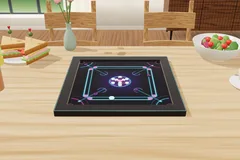
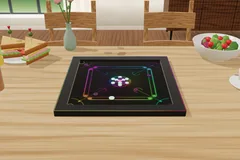
Carrom neon: gaming RGB (flowing rainbow glow on lines, frame, pockets, LED rings on men), flashes on every contact
Claude-Session: https://claude.ai/code/session_019p8B6UqeAdsK6vNEgpDiqd

diff --git a/atlas/models/carrom.js b/atlas/models/carrom.js
@@ -290,15 +290,40 @@
     return (geos.surf = g);
   }
 
+  /* ---------- the gaming RGB of the night board ----------
+     rgbify(material, mode): the glow is redrawn in a rainbow that flows with the clock (RGB.uT, seconds; set as the board is drawn).
+     'uv' the surface (hue by the angle round the centre + the distance out), 'local' a tube / ring (hue along its own x, or round
+     its own centre for a ring), 'halo' the flash ring of a man (a MeshBasicMaterial: the whole colour). The brightness stays the
+     material's own: only the hue is replaced. */
+  const RGB = { uT: { value: 0 } };
+  const HUE = 'vec3 crHue(float h){return clamp(abs(mod(h*6.0+vec3(0.0,4.0,2.0),6.0)-3.0)-1.0,0.0,1.0);}\n';
+  function rgbify(m, mode) {
+    m.customProgramCacheKey = () => 'crRGB' + mode;
+    m.onBeforeCompile = sh => {
+      sh.uniforms.uT = RGB.uT;
+      if (mode !== 'uv') {
+        sh.vertexShader = 'varying vec3 vCrP;\n' + sh.vertexShader.replace('#include <begin_vertex>', '#include <begin_vertex>\nvCrP = position;');
+      }
+      sh.fragmentShader = 'uniform float uT;\n' + (mode !== 'uv' ? 'varying vec3 vCrP;\n' : '') + HUE + sh.fragmentShader;
+      const hue = mode === 'uv' ? 'vec2 crp = vUv - 0.5; float crh = atan(crp.y, crp.x) / 6.2831853 + length(crp) * 0.9 - uT * 0.16;'
+        : mode === 'ring' ? 'float crh = atan(vCrP.z, vCrP.x) / 6.2831853 - uT * 0.5;'
+        : mode === 'halo' ? 'float crh = atan(vCrP.z, vCrP.x) / 6.2831853 + uT * 1.4;'
+        : 'float crh = vCrP.x * 0.12 - uT * 0.3;';
+      if (mode === 'halo') sh.fragmentShader = sh.fragmentShader.replace('gl_FragColor = vec4( outgoingLight, diffuseColor.a );', '{ ' + hue + ' outgoingLight = crHue(fract(crh)) * 1.15; }\ngl_FragColor = vec4( outgoingLight, diffuseColor.a );');
+      else sh.fragmentShader = sh.fragmentShader.replace('#include <emissivemap_fragment>', '#include <emissivemap_fragment>\n{ ' + hue + ' float crL = max(max(totalEmissiveRadiance.r, totalEmissiveRadiance.g), totalEmissiveRadiance.b); totalEmissiveRadiance = crHue(fract(crh)) * crL * 1.2; }');
+    };
+    return m;
+  }
+
   /* ---------- materials ---------- */
   function boardMats(look) {
     const TT = T();
     if (look === 'neon') return mat('bm' + look, () => {
-      const glowM = c => { const m = phys({ color: '#000000', roughness: .4, metalness: 0 }); m.emissive = lin(c); m.emissiveIntensity = 1.6; return m; };
-      const st = surfaceTex(look), surf = phys({ map: st, color: '#ffffff', roughness: .25, metalness: 0, clearcoat: .9, clearcoatRoughness: .1, envMapIntensity: .5 });
-      surf.emissiveMap = st; surf.emissive = new TT.Color(.75, .75, .75);   // the drawn tubes glow; the black stays black
+      const glowM = (c, mode) => { const m = phys({ color: '#000000', roughness: .4, metalness: 0 }); m.emissive = lin(c); m.emissiveIntensity = 1.6; return rgbify(m, mode); };
+      const st = surfaceTex(look), surf = phys({ map: st, color: '#4a4a4a', roughness: .25, metalness: 0, clearcoat: .9, clearcoatRoughness: .1, envMapIntensity: .5 });
+      surf.emissiveMap = st; surf.emissive = new TT.Color(.95, .95, .95); rgbify(surf, 'uv');   // (a dim base colour under it: the glow's rainbow stays saturated)   // the drawn tubes glow in a flowing rainbow; the black stays black
       return { surf, frame: phys({ color: '#0b0c14', roughness: .22, metalness: 0, clearcoat: 1, clearcoatRoughness: .08, envMapIntensity: 1 }),
-        edge: glowM('#3ce6ff'), rim: glowM('#ff3fb4'), cup: phys({ color: '#05050a', roughness: .9 }), net: phys({ map: netTex(), color: '#ffffff', roughness: 1 }) };
+        edge: glowM('#ffffff', 'local'), rim: glowM('#ffffff', 'ring'), cup: phys({ color: '#05050a', roughness: .9 }), net: phys({ map: netTex(), color: '#ffffff', roughness: 1 }) };
     });
     if (look === 'rajasthan') return mat('bm' + look, () => {
       const fw = X.wood('crSheesham', '#5a3418', '#1e0e05', SZ(1024), SZ(256), 1.2); fw.wrapS = fw.wrapT = TT.RepeatWrapping;
@@ -354,12 +379,21 @@
     if (look === 'modern' && striker) { const ring = new TT.Mesh(geos.ring || (geos.ring = (() => { const q = new TT.TorusGeometry(r - .004, .006, 6, 36); q.rotateX(Math.PI / 2); if (X.share) X.share(q); return q; })()), boardMats('modern').brass); ring.position.y = h * .55; g.add(ring); }
     g.userData = { c, r, h };
     if (neon) {   // a hit lights the man up: its face glows hard and a halo flares round it (flash(k), k 1 → 0)
-      const col = { w: '#3ce6ff', b: '#ff3fb4', q: '#ff4fbd', s: '#9ff4ff' }[c];
-      const hm = new TT.MeshBasicMaterial({ color: lin(col), transparent: true, opacity: 0, blending: TT.AdditiveBlending, depthWrite: false });
+      // an RGB LED ring round the rim (dim at rest), and a rainbow halo that spins out from the man when it is hit
+      const lm = rgbify(phys({ color: '#000000', roughness: .4, metalness: 0 }), 'ring'); lm.emissive = new TT.Color(1, 1, 1); lm.emissiveIntensity = .55;
+      const led = new TT.Mesh(geos['led' + c] || (geos['led' + c] = (() => { const q = new TT.TorusGeometry(r + .002, .007, 6, LO() ? 28 : 44); q.rotateX(Math.PI / 2); if (X.share) X.share(q); return q; })()), lm);
+      led.position.y = h * .5; g.add(led);
+      const hm = rgbify(new TT.MeshBasicMaterial({ color: 0xffffff, transparent: true, opacity: 0, blending: TT.AdditiveBlending, depthWrite: false }), 'halo');
+      const wm = rgbify(new TT.MeshBasicMaterial({ color: 0xffffff, transparent: true, opacity: 0, blending: TT.AdditiveBlending, depthWrite: false }), 'halo');
       const halo = new TT.Mesh(geos.halo || (geos.halo = (() => { const q = new TT.RingGeometry(.5, 1, LO() ? 24 : 40); q.rotateX(-Math.PI / 2); if (X.share) X.share(q); return q; })()), hm);
       halo.position.y = h + .002; halo.visible = false; halo.renderOrder = 3; g.add(halo);
+      const wave = new TT.Mesh(geos.halo, wm); wave.position.y = .006; wave.visible = false; wave.renderOrder = 3; g.add(wave);   // a thin shock ring on the board
       const e0 = top.emissive.clone();
-      g.userData.flash = k => { k = Math.max(0, Math.min(1, k)); top.emissive.copy(e0).multiplyScalar(1 + 3.5 * k); halo.visible = k > .01; hm.opacity = k; const sc = r * (1.25 + (1 - k) * 1.3); halo.scale.set(sc, 1, sc); };
+      g.userData.flash = k => {
+        k = Math.max(0, Math.min(1, k)); top.emissive.copy(e0).multiplyScalar(1 + 3.5 * k); lm.emissiveIntensity = .55 + 4 * k;
+        halo.visible = wave.visible = k > .01; hm.opacity = k; wm.opacity = .7 * k * k;
+        const sc = r * (1.25 + (1 - k) * 1.3), sw = r * (1.4 + (1 - k) * 3.2); halo.scale.set(sc, 1, sc); wave.scale.set(sw, 1, sw);
+      };
     }
     return g;
   }
@@ -372,7 +406,7 @@
     const surf = new TT.Mesh(surfaceGeo(), BM.surf); surf.position.y = TOP; surf.receiveShadow = true; g.add(surf);
     if (look === 'neon') {   // the breathing light, read from the clock as the surface is drawn (kept out of the showcase's merge)
       surf.userData.keep = true; const s0 = BM.surf.emissive.r;
-      surf.onBeforeRender = () => { const k = neonK(performance.now()); BM.surf.emissive.setScalar(s0 * (.7 + 1.1 * k)); BM.edge.emissiveIntensity = BM.rim.emissiveIntensity = 1.2 * (1 + 1.6 * k); };   // (a little dimmer at rest, so the wave stands out)
+      surf.onBeforeRender = () => { const k = neonK(performance.now()); RGB.uT.value = performance.now() / 1000; BM.surf.emissive.setScalar(s0 * (.7 + 1.1 * k)); BM.edge.emissiveIntensity = BM.rim.emissiveIntensity = 1.2 * (1 + 1.6 * k); };   // (a little dimmer at rest, so the wave stands out)
     }
     // a base under the surface (seen through the pockets' rims) and the pocket cups with their nets
     const base = new TT.Mesh(new TT.BoxGeometry(2 * S, .04, 2 * S), BM.cup); base.position.y = .03; g.add(base);

diff --git a/atlas/games/carrom.js b/atlas/games/carrom.js
@@ -303,7 +303,7 @@
 
     /* ---------- the AI (a worker; the page thinks itself if workers are unavailable) ---------- */
     let worker = null, wid = 0; const pend = {};
-    try { worker = new Worker('../carrom/worker.js?v=1'); worker.onmessage = e => { const d = e.data || {}, f = pend[d.id]; if (f) { delete pend[d.id]; f(d.shot || null); } }; worker.onerror = () => { worker = null; Object.keys(pend).forEach(k => { const f = pend[k]; delete pend[k]; f(null); }); }; } catch (e) { worker = null; }
+    try { worker = new Worker('../carrom/worker.js?v=2'); worker.onmessage = e => { const d = e.data || {}, f = pend[d.id]; if (f) { delete pend[d.id]; f(d.shot || null); } }; worker.onerror = () => { worker = null; Object.keys(pend).forEach(k => { const f = pend[k]; delete pend[k]; f(null); }); }; } catch (e) { worker = null; }
     function think(s, lv) {
       const seed = (Math.random() * 1e9) | 0;
       return new Promise(res => {
@@ -359,7 +359,10 @@
           while (ev < sim.events.length && sim.events[ev].t <= el) {
             const e = sim.events[ev++];
             if (e.k === 'hit' && e.v > 8) SND.hit(e.v); else if (e.k === 'cush' && e.v > 25) SND.cush(e.v); else if (e.k === 'pocket') SND.pocket();
-            if (e.k === 'hit' && e.v > 4) { flash(e.a === N ? striker : pcs[e.a], e.v); flash(e.b === N ? striker : pcs[e.b], e.v); }
+            const pg = i => i == null ? null : i === N ? striker : pcs[i];   // (neon: everything a man touches lights it up)
+            if (e.k === 'hit' && e.v > 4) { flash(pg(e.a), e.v); flash(pg(e.b), e.v); }
+            else if (e.k === 'cush' && e.v > 6) flash(pg(e.i), e.v);
+            else if (e.k === 'pocket') flash(pg(e.i), 200);
           }
           kick(120);
           if (fi < F.length - 1 || Object.values(sinks).some(s => el - s.t < .22)) requestAnimationFrame(step);

diff --git a/atlas/index.html b/atlas/index.html
@@ -1633,7 +1633,7 @@ html:has(#bv.on,#hist.on,#ov.on,.lvsheet) :is(.updline,#gsSeg),.updline[hidden],
 <script src="i18n.js?v=59n"></script>
 <script src="gamelist-i18n.js?v=10n"></script>
 <script src="table3d.js?v=126"></script>
-<script src="tables3d.js?v=32"></script>
+<script src="tables3d.js?v=33"></script>
 <script src="models/shogi.js?v=23"></script>
 <script src="models/chess.js?v=14"></script>
 <script src="models/backgammon.js?v=118"></script>
@@ -1658,8 +1658,8 @@ html:has(#bv.on,#hist.on,#ov.on,.lvsheet) :is(.updline,#gsSeg),.updline[hidden],
 <script src="../ludo/house.js?v=5"></script>
 <script src="../ludo/board2d.js?v=4"></script>
 <script src="models/ludo.js?v=4"></script>
-<script src="../carrom/engine.js?v=1"></script>
-<script src="models/carrom.js?v=6"></script>
+<script src="../carrom/engine.js?v=2"></script>
+<script src="models/carrom.js?v=7"></script>
 <script src="models/cardtables.js?v=4"></script>
 <script src="icons3d.js?v=34"></script>
 <script src="games/reversi.js?v=30"></script>
@@ -1689,7 +1689,7 @@ html:has(#bv.on,#hist.on,#ov.on,.lvsheet) :is(.updline,#gsSeg),.updline[hidden],
 <script src="games/senet.js?v=15"></script>
 <script src="games/agon.js?v=8"></script>
 <script src="games/ludo.js?v=23"></script>
-<script src="games/carrom.js?v=11"></script>
+<script src="games/carrom.js?v=12"></script>
 <script>/* rules tours: after a solved step, the ▶ button fills up like a timer until the tour moves on by itself */
 window.AtlasRgdTimer = function (btn, ms, alive) {
   if (!btn) return; btn.classList.remove('rgd-auto'); void btn.offsetWidth; btn.style.setProperty('--rgt', ms + 'ms'); btn.classList.add('rgd-auto');

diff --git a/carrom/engine.js b/carrom/engine.js
@@ -111,10 +111,10 @@
         if (!ON[i]) continue;
         // cushions
         const r = R[i];
-        if (X[i] > H - r) { X[i] = H - r; if (VX[i] > 0) { events.push({ t, k: 'cush', v: VX[i] }); VX[i] = -VX[i] * E_CUSH; VY[i] *= T_CUSH; } }
-        else if (X[i] < -H + r) { X[i] = -H + r; if (VX[i] < 0) { events.push({ t, k: 'cush', v: -VX[i] }); VX[i] = -VX[i] * E_CUSH; VY[i] *= T_CUSH; } }
-        if (Y[i] > H - r) { Y[i] = H - r; if (VY[i] > 0) { events.push({ t, k: 'cush', v: VY[i] }); VY[i] = -VY[i] * E_CUSH; VX[i] *= T_CUSH; } }
-        else if (Y[i] < -H + r) { Y[i] = -H + r; if (VY[i] < 0) { events.push({ t, k: 'cush', v: -VY[i] }); VY[i] = -VY[i] * E_CUSH; VX[i] *= T_CUSH; } }
+        if (X[i] > H - r) { X[i] = H - r; if (VX[i] > 0) { events.push({ t, k: 'cush', v: VX[i], i }); VX[i] = -VX[i] * E_CUSH; VY[i] *= T_CUSH; } }
+        else if (X[i] < -H + r) { X[i] = -H + r; if (VX[i] < 0) { events.push({ t, k: 'cush', v: -VX[i], i }); VX[i] = -VX[i] * E_CUSH; VY[i] *= T_CUSH; } }
+        if (Y[i] > H - r) { Y[i] = H - r; if (VY[i] > 0) { events.push({ t, k: 'cush', v: VY[i], i }); VY[i] = -VY[i] * E_CUSH; VX[i] *= T_CUSH; } }
+        else if (Y[i] < -H + r) { Y[i] = -H + r; if (VY[i] < 0) { events.push({ t, k: 'cush', v: -VY[i], i }); VY[i] = -VY[i] * E_CUSH; VX[i] *= T_CUSH; } }
       }
       // knocks: every pair with a mover
       for (let i = 0; i < N; i++) {

diff --git a/atlas/tables3d.js b/atlas/tables3d.js
@@ -164,7 +164,7 @@
   };
   X.BOARDS = BOARDS;
   X.boardName = (k, lang) => { const o = N3[k]; return o ? o[lang] || o.en : k; };
-  X.boardThumb = (id, k) => new URL('img/board-' + id + '-' + k + '.webp?v=' + (id === 'senet' ? 3 : id === 'konane' || id === 'carrom' ? 2 : 1), ME).href;
+  X.boardThumb = (id, k) => new URL('img/board-' + id + '-' + k + '.webp?v=' + (id === 'senet' ? 3 : id === 'carrom' ? 3 : id === 'konane' ? 2 : 1), ME).href;
   // choose a board for a game: the shared key is written and the showcase board (if it is that game's) is rebuilt at once
   X.setBoard = (id, k) => { const B = BOARDS[id]; if (!B || !B.list.includes(k)) return; B.set(k); try { dispatchEvent(new CustomEvent('atlas-board', { detail: { id, look: k } })); } catch (e) {} };
   PLACES.ui.board = { ja: '盤', en: 'Board', zh: '棋盘', ko: '판', es: 'Tablero', fr: 'Plateau', pt: 'Tabuleiro', de: 'Brett', hi: 'बोर्ड', ar: 'اللوحة', ru: 'Доска', 'zh-TW': '棋盤', id: 'Papan', tr: 'Tahta' };

diff --git a/carrom/worker.js b/carrom/worker.js
@@ -1,5 +1,5 @@
 /* Carrom AI worker: { id, s (state), level, seed } → { id, shot } (the shot it means; the hand's error is added by the page) */
-importScripts('engine.js?v=1');
+importScripts('engine.js?v=2');
 self.onmessage = e => {
   const d = e.data || {};
   try { self.postMessage({ id: d.id, shot: CarromEngine.think(d.s, d.level, d.seed) }); }

diff --git a/claude/carrom-spec.md b/claude/carrom-spec.md
@@ -48,7 +48,7 @@
 - 描画：ウィンドウが前面にない（blur）・タブが隠れている間は、ストライカーの輪の点滅を止めて描画を止める（共通ルールのオンデマンド描画）。
 - 盤の名前：「モダンアート 3D」「クラシック 3D」「ネオン 3D」「ラジャスタン 3D」「バウハウス 3D」（`N3`、14言語）。選択は `atlas-carrom-look`、盤のサムネイルは `atlas/img/board-carrom-<look>.webp`（tools/boards.html で撮る）。
 - 盤の中身：ネオン＝黒漆に光る線（表面の emissiveMap）、枠の内縁とポケットに光る管、アクリル風の駒（顔が光る）。ラジャスタン＝サフランの地に小さなペイズリー、赤い縁取り帯と金の点、中央に蓮の曼荼羅、四隅に蓮の扇、シーシャム材の枠に真鍮。バウハウス＝生成りの紙に赤い円・青い正方形・黄色い三角・黒い棒、マットな黒枠。
-- ネオンの演出：駒どうしが当たると両方の駒が光る（顔の発光が強まり、周りに光の輪が広がって0.5秒で消える。`userData.flash(k)`）。盤は6.5秒ごとに1.5秒、光の波が走る（盤面と縁・ポケットの管が明るくなる、出だしに瞬き）。描画はその間だけ（`Table3D.carrom.neonWave`、ウィンドウが前面のときだけ）。
+- ネオンの演出（ゲーミングRGB）：盤面の線・枠の縁・ポケットの輪・駒の縁のLEDリングが、時間とともに流れる虹色で光る（シェーダーで発光の色相だけを置き換える `rgbify`、明るさは素材のまま）。駒が駒・クッションに当たる・ポケットに落ちると、その駒の顔とLEDが強く光り、虹色の光の輪と広がる衝撃波の輪が0.5秒で消える（`userData.flash(k)`、エンジンのクッションの出来事に駒の番号 `i`）。盤は6.5秒ごとに1.5秒、光の波で明るくなる。描画は動き・光・波の間だけ（ウィンドウが前面のとき）。
 - 盤の切り替え：`atlas-carrom-look` を table3d.js の `stamp()` に入れる（入れないと、作り置き・取っておいた別の盤が出る）。
 - クラシックの枠：木目は各辺1枚で貼る（繰り返しの継ぎ目を出さない）。
 - 待った（AI戦：自分の前の手番まで）・ヒント（Lv.20の手：ストライカーを置いて、狙いを桃色の点線で表示、強さを％で）・投了。2人対戦は手番の側が手前に来るよう盤が回る。
